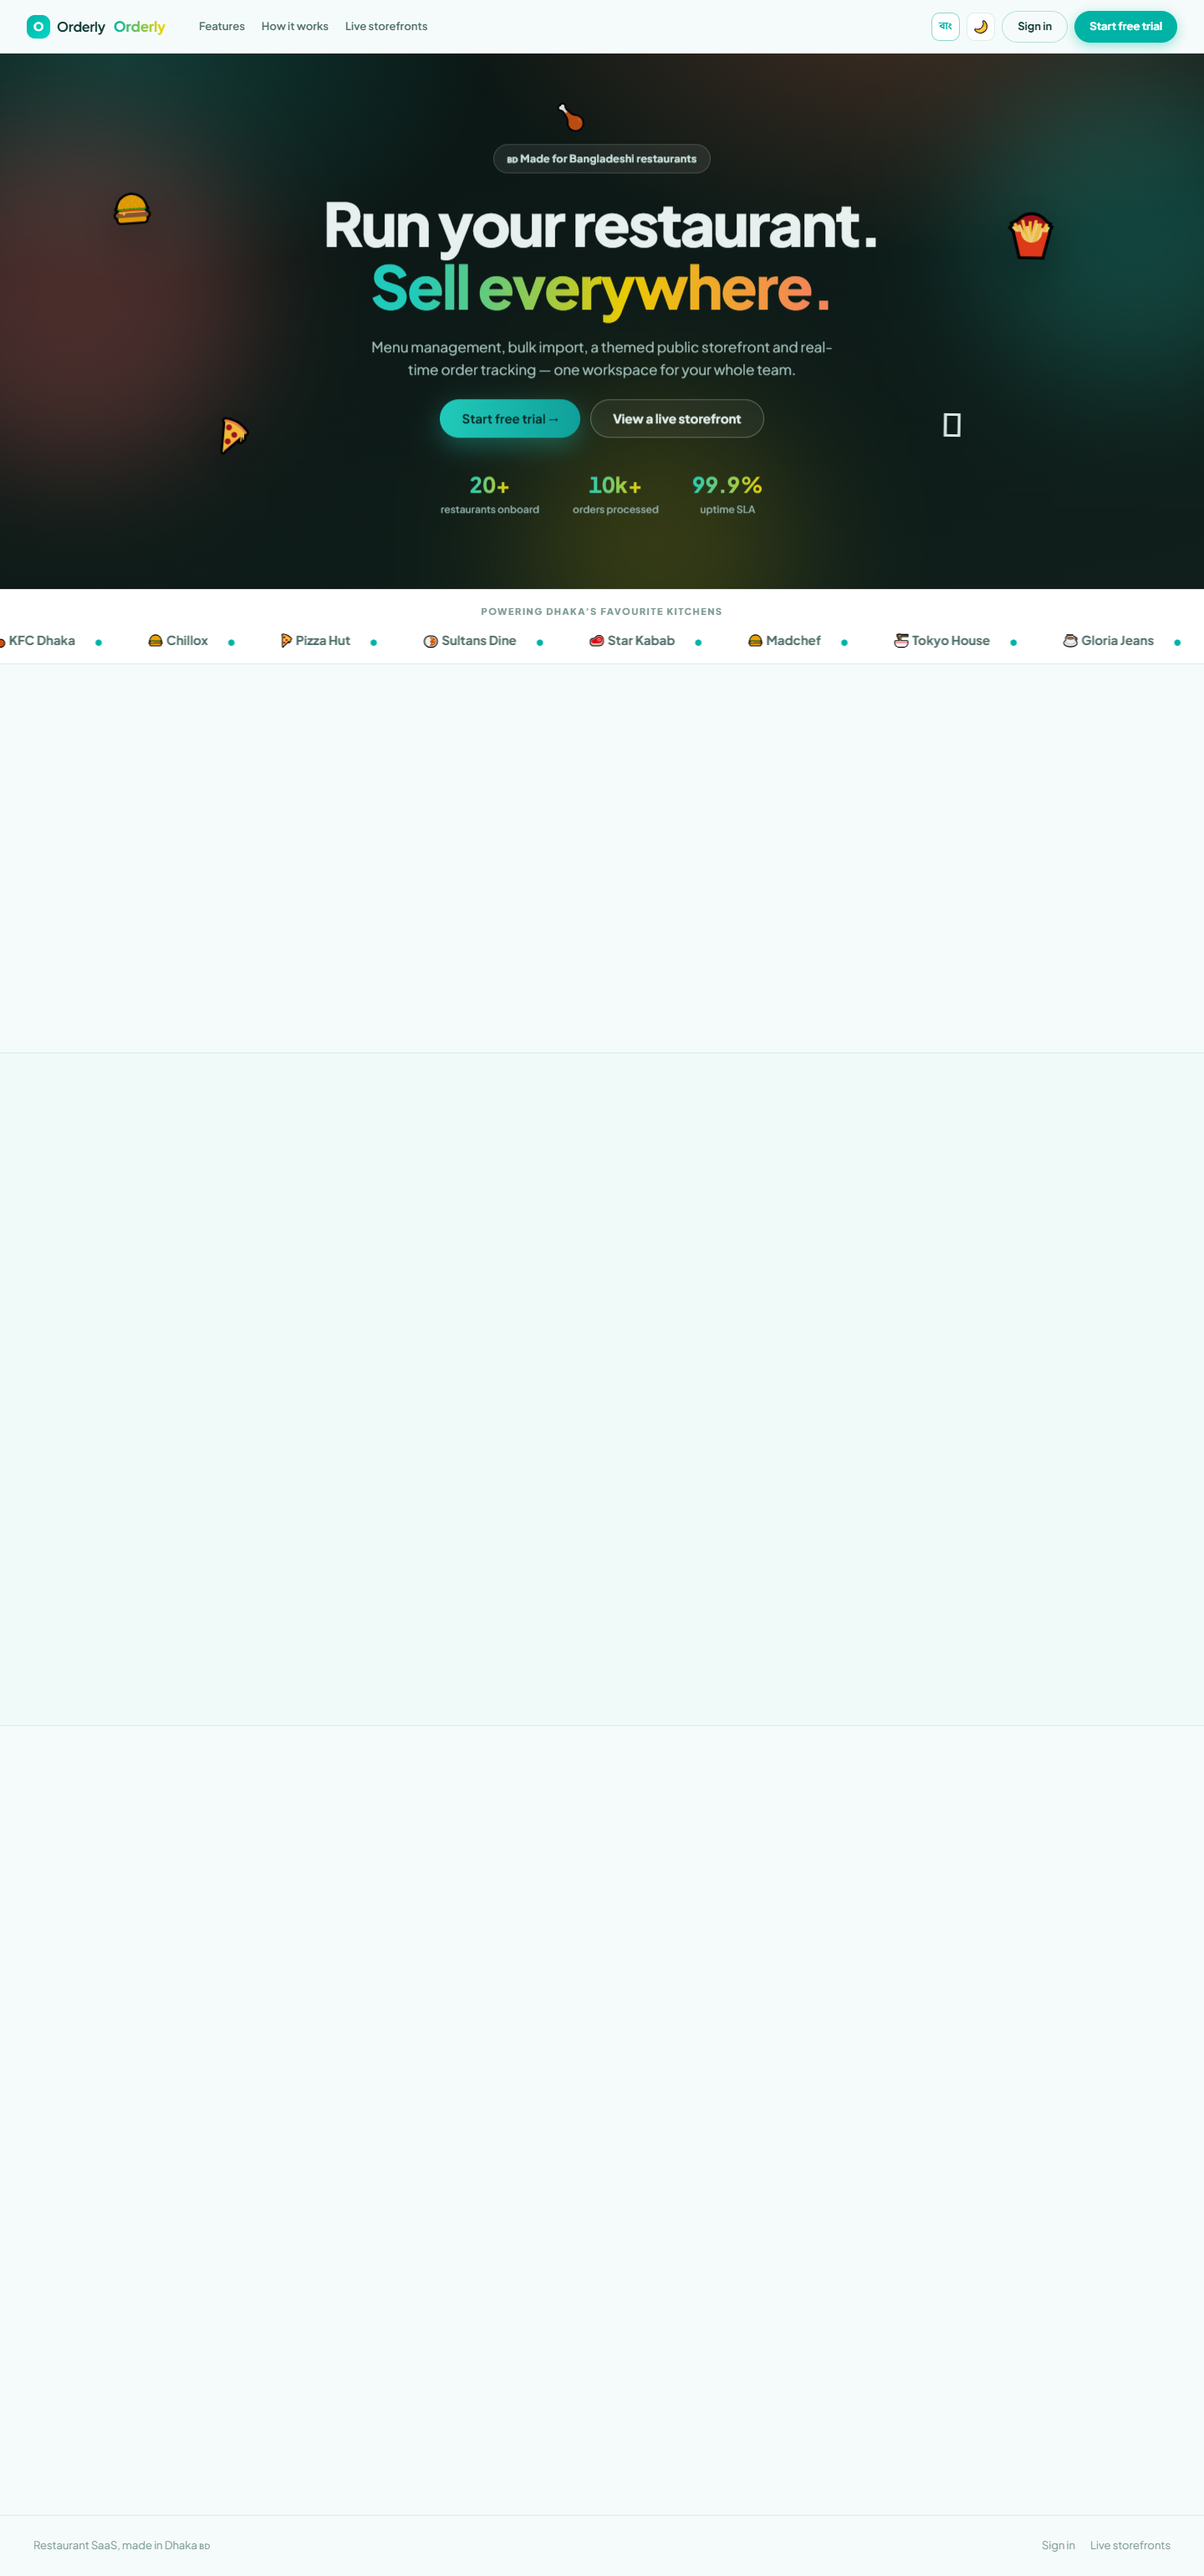
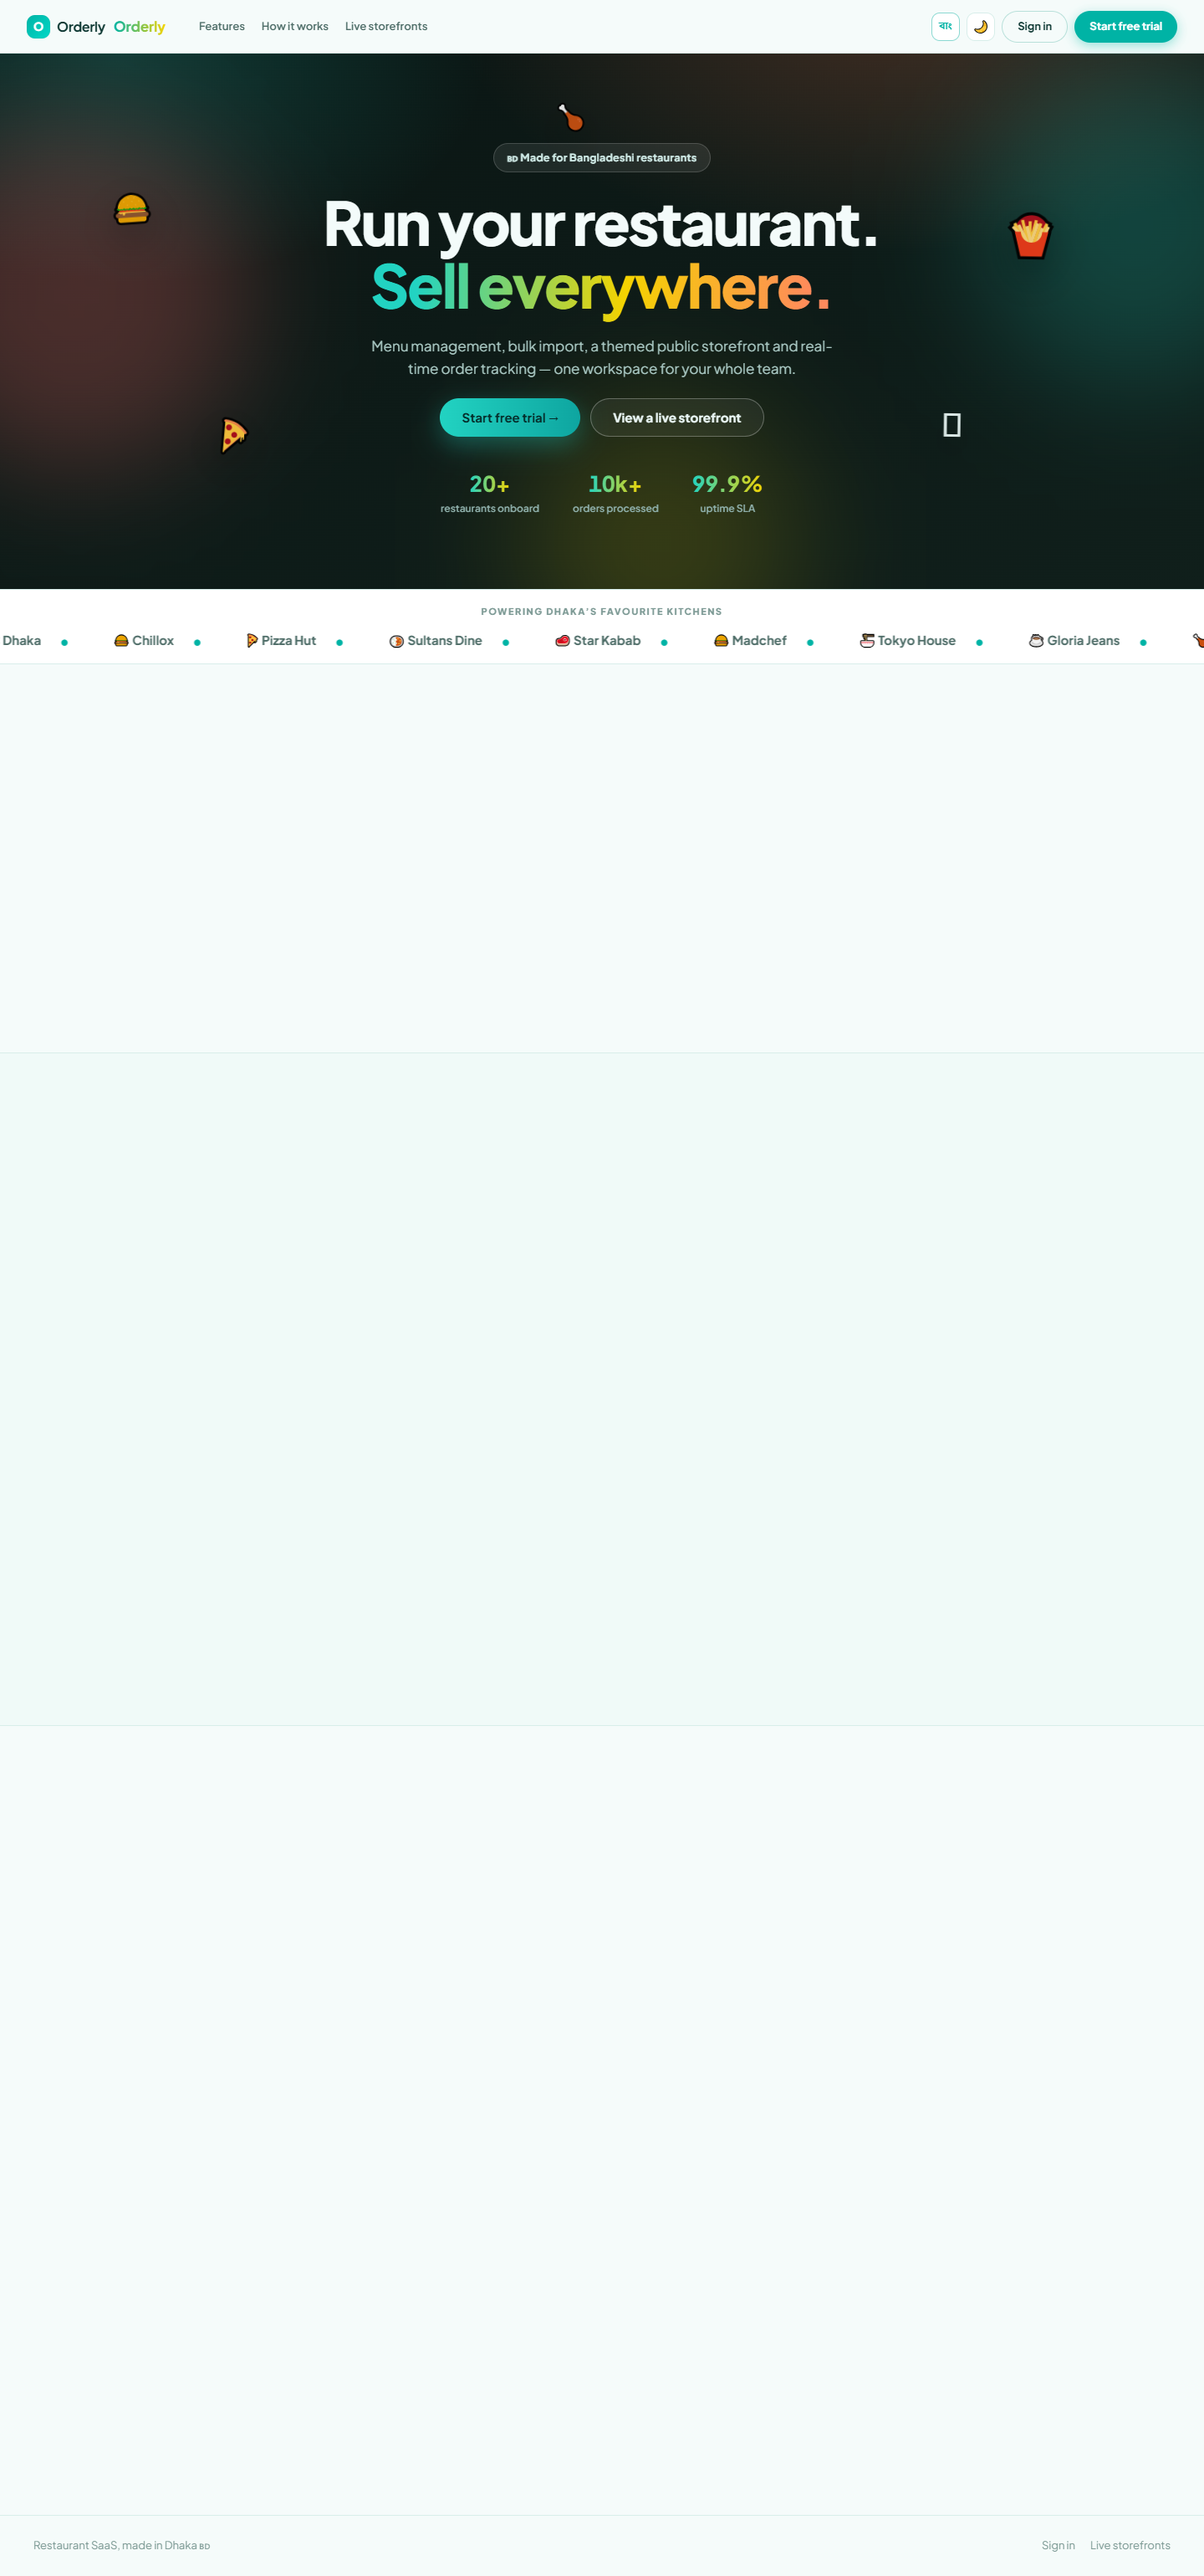
docs: phase-by-phase screenshot galleries + 6 new captures
Adds merchant Menu, Promotions, Settings, Register, and dark-mode
landing/storefront captures (19 total) and reorganizes the README
screenshots into Phase 3/4/5/6 galleries so each phase has its own
visual section. Roadmap line updated — split payments shipped, next
is storefront checkout + analytics depth.

🤖 Generated with Codebuff

Changed region(s): [[0.3125, 0.0624, 0.6562, 0.1871]]

diff --git a/README.md b/README.md
@@ -152,7 +152,7 @@ The Order Management System is evolving from a single-tenant order CRUD app into
 - `cd frontend && npx playwright test`: boots the real API on a scratch DB + the Vite app and drives login, product CRUD, order creation, and the fulfillment UI through the actual browser · runs in CI (dedicated `e2e` job)
 
 ### Roadmap (V2)
-Customer storefront checkout (cart → order) · online payment **split payments** · deeper analytics dashboards · SaaS admin portal · hardening (performance, observability, load) · production release.
+Customer storefront checkout (cart → order) · deeper analytics dashboards (peak-hour heatmap, category mix, retention) · SaaS admin portal · hardening (performance, observability, load) · production release.
 
 > Full audit and phased roadmap: [`docs/01-codebase-audit.md`](docs/01-codebase-audit.md) · [`docs/02-v2-roadmap.md`](docs/02-v2-roadmap.md) · [`docs/03-database-schema.md`](docs/03-database-schema.md)
 
@@ -160,27 +160,49 @@ Customer storefront checkout (cart → order) · online payment **split payments
 
 ## 📸 Screenshots
 
-> Live captures from the running app (Deliveroo-inspired teal theme). Re-capture anytime with `cd frontend && node scripts/screenshots.mjs` while the dev servers are up — the script logs in as the seeded admin and captures every page below.
+> Live captures from the running app (Deliveroo-inspired design system, light & dark). Re-capture anytime with `cd frontend && node scripts/screenshots.mjs` while the dev servers are up — the script logs in as the seeded admin and captures every page below, auto-selecting the workspace that has demo data so no shot is ever empty.
+
+### Phase 3 — Multi-tenant SaaS platform
 
 | | |
 |---|---|
-| **Landing page** — CRAV-style hero, full-page | **Public storefront** — live menu demo at `/m/:slug` |
-| ![Landing](docs/screenshots/landing-light.png) | ![Public storefront](docs/screenshots/public-menu-light.png) |
-| **Dashboard** — closeout trend + 3-day forecast + month-over-month | **Reports** — daily closeout + VAT compliance (NBR-ready) |
-| ![Dashboard](docs/screenshots/dashboard-light.png) | ![Reports](docs/screenshots/reports-light.png) |
-| **QR table menu** — printable table codes | **Customer tracking** — order no + phone |
-| ![QR menu](docs/screenshots/qr-menu-light.png) | ![Tracking](docs/screenshots/track-light.png) |
-| **Login — light mode** | **Login — dark mode** |
-| ![Login light](docs/screenshots/login-light.png) | ![Login dark](docs/screenshots/login-dark.png) |
+| **Register** — create an account | **Login — light mode** |
+| ![Register](docs/screenshots/register-light.png) | ![Login light](docs/screenshots/login-light.png) |
+| **Login — dark mode** | |
+| ![Login dark](docs/screenshots/login-dark.png) | |
+
+### Phase 4 — Menu, media & analytics
+
+| | |
+|---|---|
+| **Landing page** — CRAV-style animated hero (light) | **Landing — dark mode** |
+| ![Landing](docs/screenshots/landing-light.png) | ![Landing dark](docs/screenshots/landing-dark.png) |
+| **Public storefront** — live menu at `/m/:slug` | **Public storefront — dark mode** |
+| ![Public storefront](docs/screenshots/public-menu-light.png) | ![Public storefront dark](docs/screenshots/public-menu-dark.png) |
+| **Merchant Menu** — Wolt/Deliveroo-style grouped categories | **Promotions** — offers manager |
+| ![Menu](docs/screenshots/menu-merchant-light.png) | ![Promotions](docs/screenshots/promotions-light.png) |
 | **Products — light mode** | **Products — dark mode** |
 | ![Products light](docs/screenshots/products-light.png) | ![Products dark](docs/screenshots/products-dark.png) |
+| **Dashboard** — closeout trend + 3-day forecast + month-over-month | |
+| ![Dashboard](docs/screenshots/dashboard-light.png) | |
+
+### Phase 5 — Ordering & fulfillment
+
+| | |
+|---|---|
+| **QR table menu** — printable table codes + per-table PNG | **Customer tracking** — order no + phone |
+| ![QR menu](docs/screenshots/qr-menu-light.png) | ![Tracking](docs/screenshots/track-light.png) |
+| **Settings** — storefront branding editor, payment methods & WhatsApp | |
+| ![Settings](docs/screenshots/settings-light.png) | |
 
 ### Phase 6 — Payments (live captures)
 
 | | | |
 |---|---|---|
-| **Orders** — Split/Partial badges, ↩ Refund, 🧾 Invoice actions | **Order invoice** — per-item VAT split (NBR) + linked payments | **New Order** — split-payment editor (bKash ৳ + Cash ৳ per part) |
-| ![Orders — Phase 6](docs/screenshots/orders-phase6-light.png) | ![Invoice — Phase 6](docs/screenshots/invoice-phase6-light.png) | ![Split editor — Phase 6](docs/screenshots/neworder-split-light.png) |
+| **Orders** — Split/Partial badges, ↩ Refund, 🧾 Invoice actions | **Reports** — daily closeout + VAT compliance (NBR-ready) | **Order invoice** — per-item VAT split + linked payments |
+| ![Orders — Phase 6](docs/screenshots/orders-phase6-light.png) | ![Reports](docs/screenshots/reports-light.png) | ![Invoice — Phase 6](docs/screenshots/invoice-phase6-light.png) |
+| **New Order** — split-payment editor (bKash ৳ + Cash ৳ per part) | | |
+| ![Split editor — Phase 6](docs/screenshots/neworder-split-light.png) | | |
 
 ---
 
